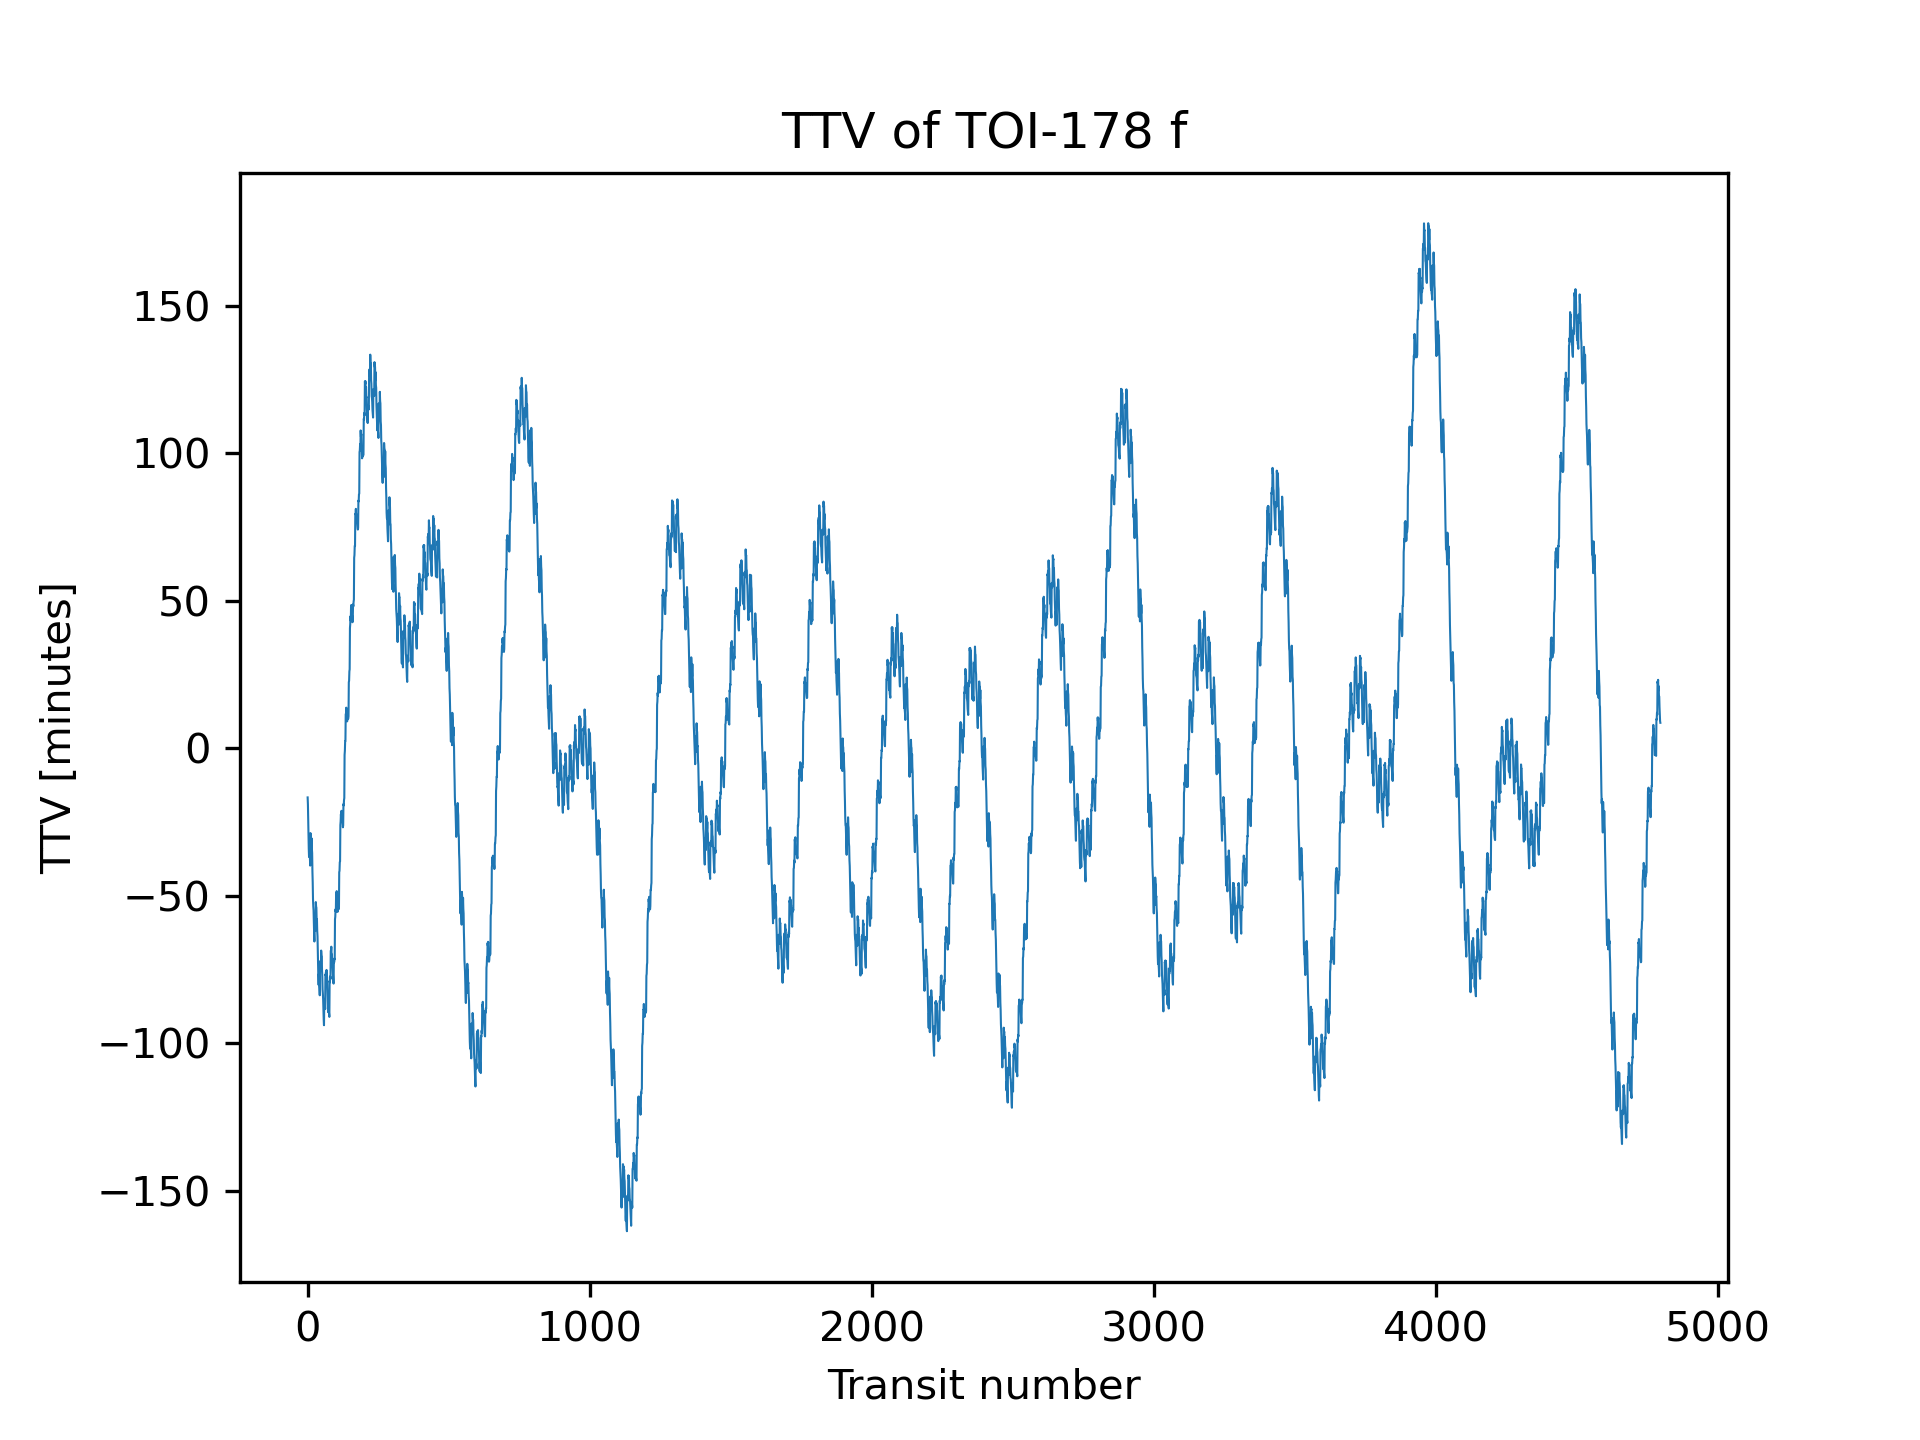
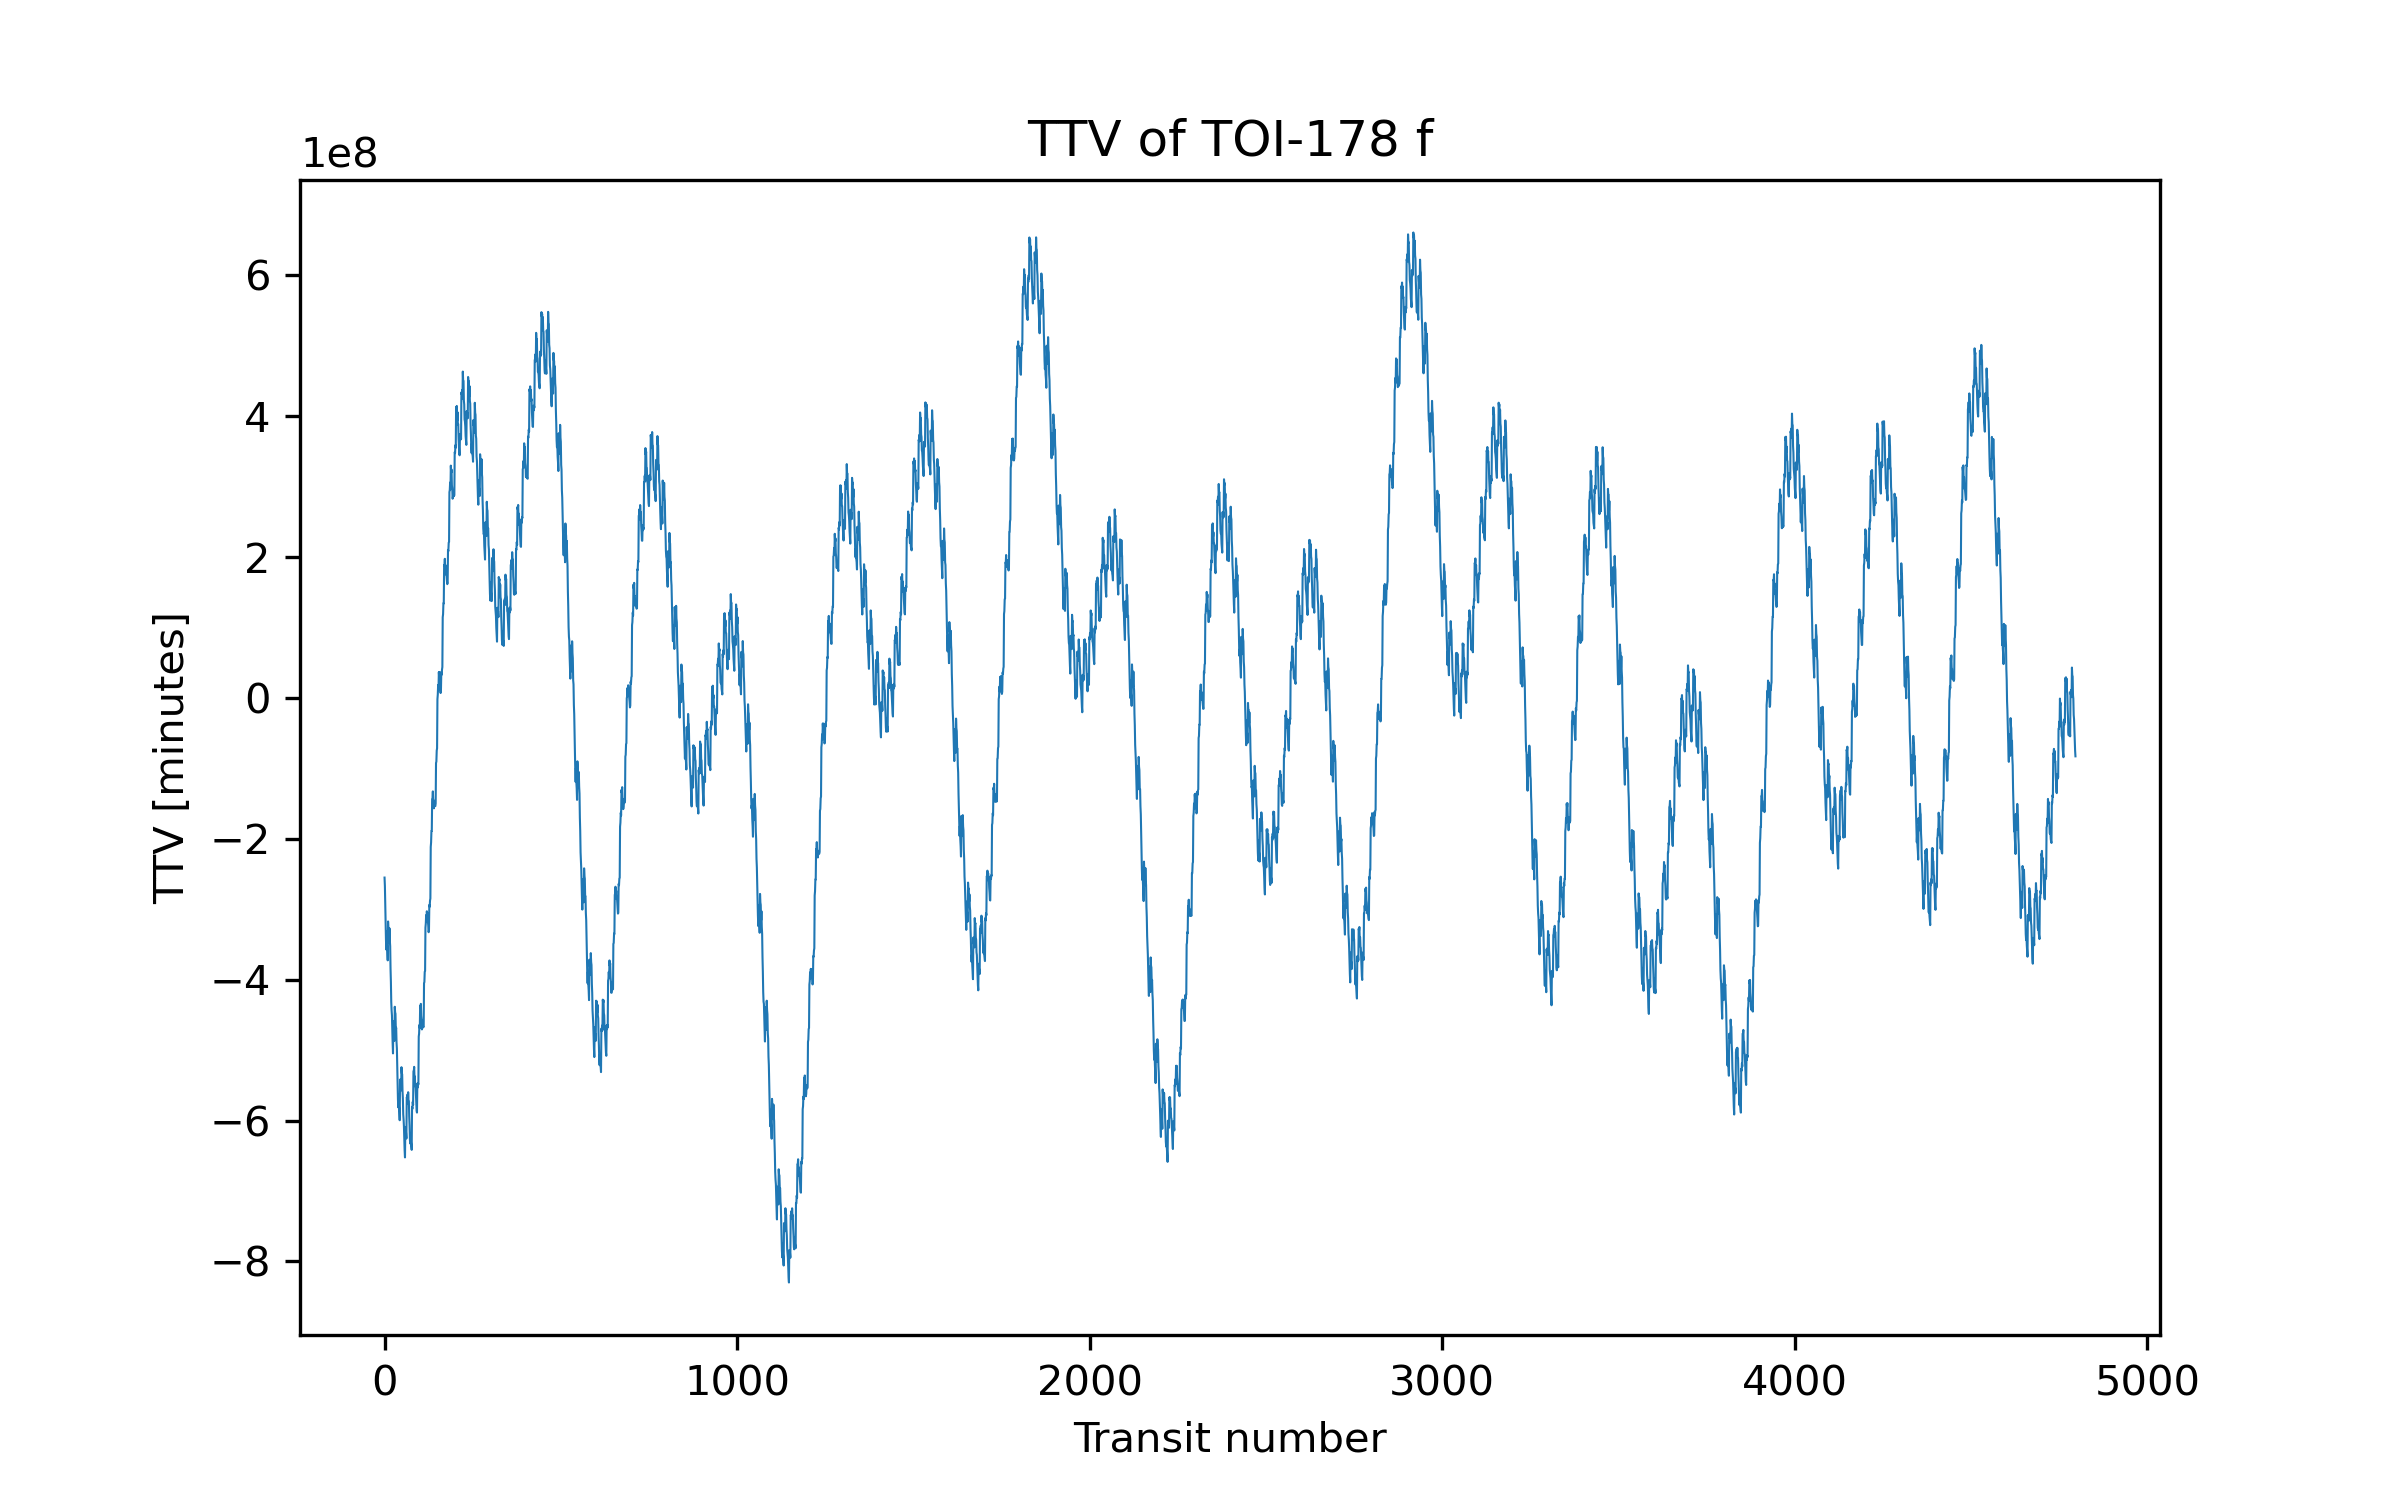
TTV for sim with moon

diff --git a/Rebound_simulation/sim_ttv_with_moon.py b/Rebound_simulation/sim_ttv_with_moon.py
@@ -16,7 +16,8 @@ day_in_second = 60*60*24
 Nsteps = 10000
 times = np.linspace(0, Ndays*day_in_second, Nsteps)
 timestep = (times[2]-times[1])
-Nt = 6
+Nt = 7 # 6 planets + 1 moon
+
 
 # Data from the paper for each planet and of the star
 # Masses with error
@@ -39,11 +40,11 @@ mass_err6 = np.array([1-(1.62/3.94),1+(1.31/3.94)])
 # semi-major axes
 sma = np.zeros(6)
 sma[0] = 0.02607*AU
-sma[1] = 0.0370*AU
-sma[2] = 0.0592*AU
-sma[3] = 0.0783*AU
-sma[4] = 0.1039*AU
-sma[5] = 0.1275*AU
+sma[1] = 0.03700*AU
+sma[2] = 0.05920*AU
+sma[3] = 0.07830*AU
+sma[4] = 0.10390*AU
+sma[5] = 0.12750*AU
 
 # physical Radius
 R = np.zeros(6)
@@ -66,8 +67,8 @@ Rh[5] = (masses[6]/(3*masses[0]))**(1/3)*sma[5]
 # Periods
 P = np.zeros(6)
 P[0] = 1.914558*day_in_second
-P[1] = 3.23845*day_in_second
-P[2] = 6.5577*day_in_second
+P[1] = 3.238450*day_in_second
+P[2] = 6.557700*day_in_second
 P[3] = 9.961881*day_in_second
 P[4] = 15.231915*day_in_second
 P[5] = 20.70950*day_in_second
@@ -90,6 +91,13 @@ incl[3] = np.deg2rad(0.31)
 incl[4] = np.deg2rad(0.323)
 incl[5] = np.deg2rad(0.523)
 
+# moon parameters
+a_moon = 0.2*Rh[4]    # semi-major axis of the moon around planet f
+r_moon = 0.001*Rh[4]  # radius of the moon
+moon_mass = 0.01*masses[5]
+inc_moon = np.deg2rad(0) # inclination of the moon's orbit
+a_moon_short = a_moon/Rh[4]
+m_moon_short = round(moon_mass/masses[5], 3)
 
 ### day zero date in JBD ###
 date_ci = 2458354
@@ -136,8 +144,8 @@ def setupSimulation():
   sim.collision_resolve = 'merge'
   sim.G = 6.6743e-11
 
-  sim.integrator = "whfast" # eigentlich nicht fuer close encounters und wenn Kollisionen auftreten
-  sim.dt = 0.001 * P[4] # fuer TTV-Genauigkeit kleineres timestep als fuer Stabilitaet
+  sim.integrator = "whfast"
+  sim.dt = 0.001 * P[4] # fuer TTV-Genauigkeit kleinerer timestep als fuer Stabilitaet
   
   # placing the planets and the star
 
@@ -157,6 +165,11 @@ def setupSimulation():
   sim.add(TOI178_f)
   sim.add(TOI178_g)
   
+  # Mond zu Planet f hinzufügen
+  TOI178_f_moon = rebound.Particle(simulation=sim,primary=TOI178_f,m=moon_mass, r=r_moon, a=a_moon, inc=inc_moon)
+
+  sim.add(TOI178_f_moon)
+  
 
   sim.move_to_com()
   
@@ -166,7 +179,6 @@ def setupSimulation():
 sim = setupSimulation()
 tmax = Ndays * day_in_second
 transit_times = compute_ttv(sim, 5, tmax)
-# ecc,sma,inc,omega,longitude,orbital_node = simulation(sim)
 
 
 # linear least square fit to remove the linear trend from the transit times
@@ -179,8 +191,8 @@ ttv = (transit_times-m*np.array(range(N))-c)*(24.*365./2./np.pi) # in hours
 
 # Plot TTVs
 plt.figure(figsize=(8,5))
-plt.plot(n, ttv*60, lw=0.5)
+plt.plot(n, ttv, lw=1)
 plt.xlabel("Transit number")
-plt.ylabel("TTV [minutes]")
-plt.title("TTV of TOI-178 f")
-plt.savefig("plots/TTV_TOI178_f.png", dpi=300)
+plt.ylabel("TTV [hours]")
+plt.title("TTV of TOI-178 f with moon")
+plt.savefig(f"plots/TTV_f_with_moon_m={m_moon_short}.png", dpi=300)
